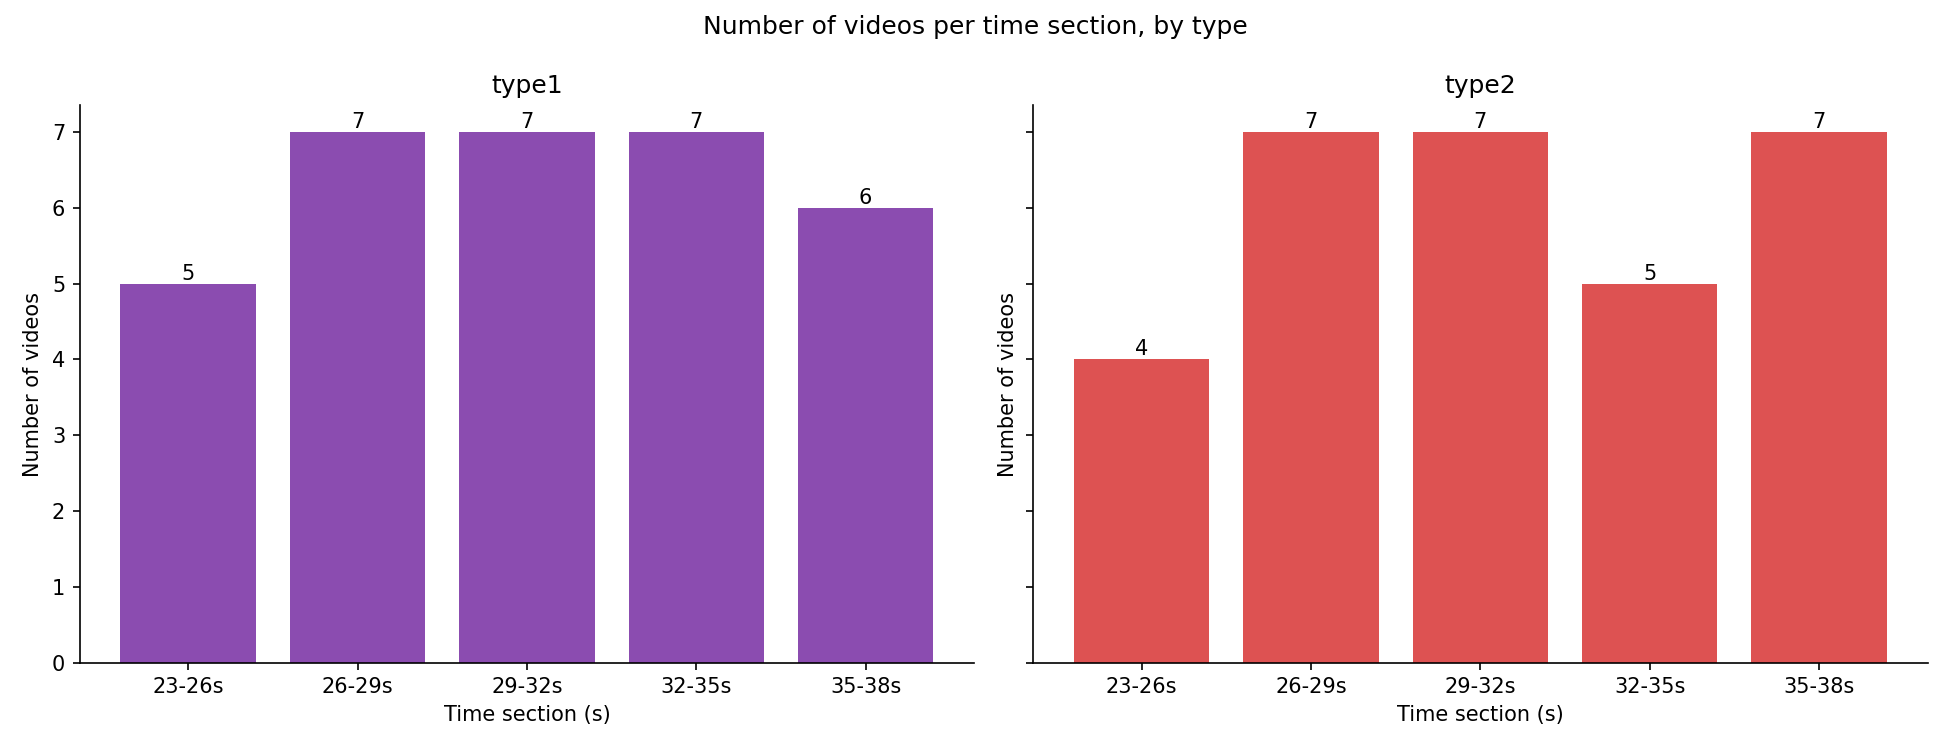
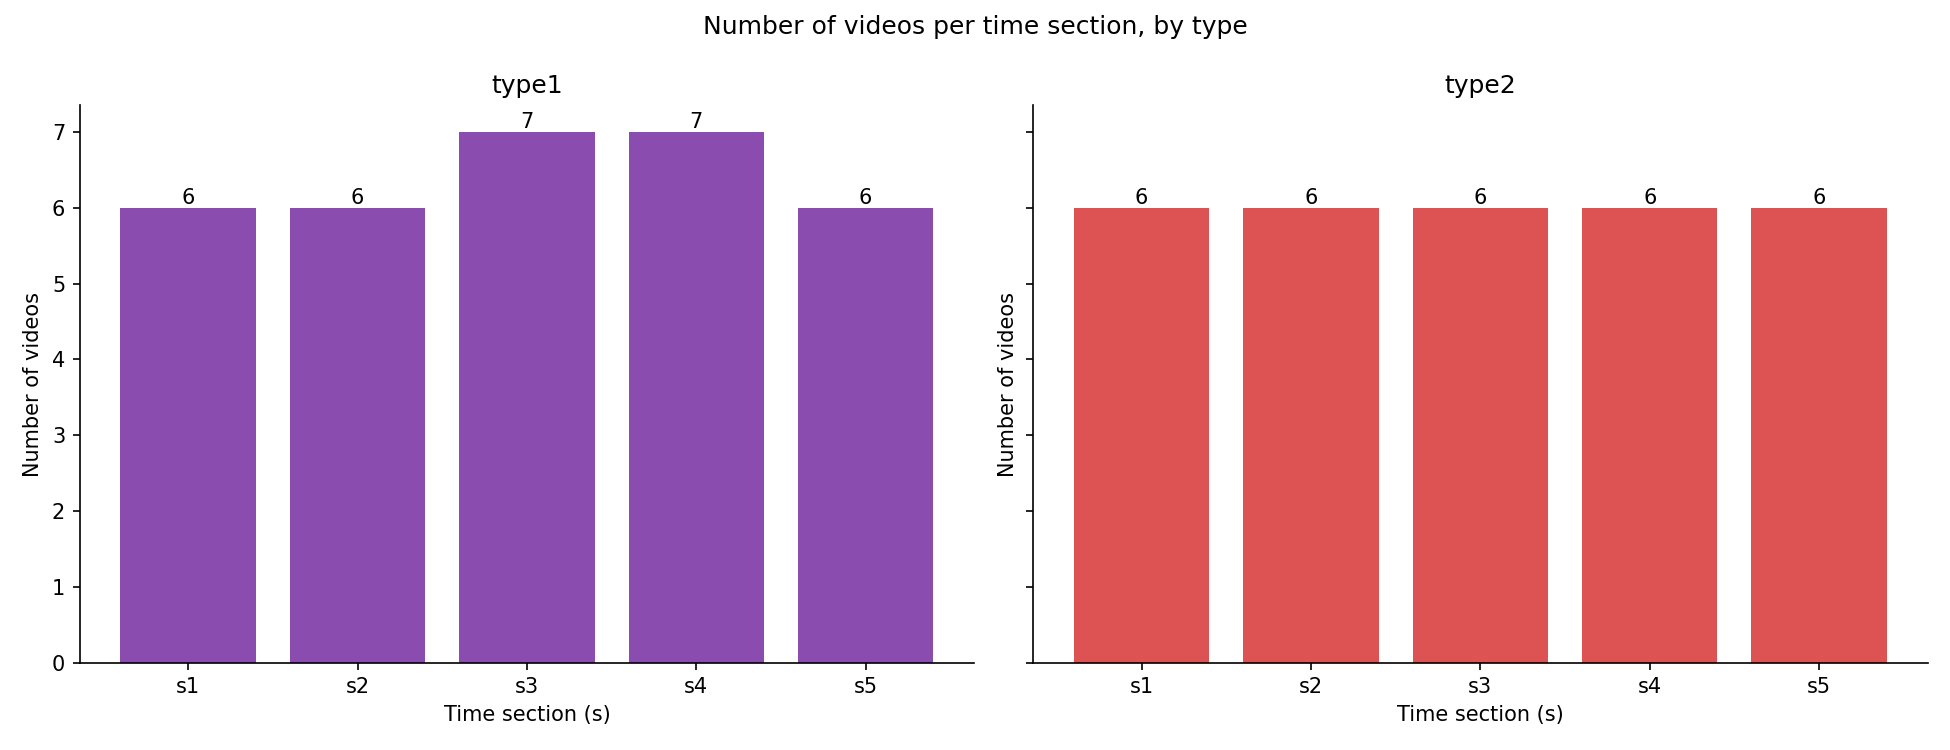
[add] histogram by type

diff --git a/stimuli/histogram_by_theme_type.py b/stimuli/histogram_by_theme_type.py
@@ -1,0 +1,107 @@
+import re
+from pathlib import Path
+
+import matplotlib.pyplot as plt
+
+VIDEO_DIR = Path("stimuli/video")
+OUTPUT_PATH = Path("stimuli/histogram_by_theme_type.png")
+
+# x축 구간 (파일명에 이미 박혀있는 s1~s5 라벨을 그대로 사용)
+BIN_LABELS = ["s1", "s2", "s3", "s4", "s5"]
+
+# 파일명에서 type과 section(s1~s5)을 뽑아냄 (theme은 상위 폴더명에서 가져옴)
+FILENAME_PATTERN = re.compile(r"^(\d+(?:\.\d+)?)s_(type1|type2)_(s[1-5])_")
+
+THEME_NAMES = ["space", "wildlife", "history"]
+TYPE_NAMES = ["type1", "type2"]
+TYPE_COLORS = {"type1": "#8B4CB0", "type2": "#DD5252"}
+
+
+def get_video_sections_by_theme_type():
+    """video 폴더의 각 mp4 파일에서 (section, theme, type)을 뽑아 theme/type별 리스트로 반환"""
+    sections_by_theme_type = {theme: {type_: [] for type_ in TYPE_NAMES} for theme in THEME_NAMES}
+
+    for video_path in sorted(VIDEO_DIR.rglob("*.mp4")):
+        match = FILENAME_PATTERN.match(video_path.name)
+        if not match:
+            print(f"경고: {video_path.name}에서 type/section을 찾지 못했습니다.")
+            continue
+
+        theme = video_path.parent.name
+        if theme not in sections_by_theme_type:
+            print(f"경고: {video_path}의 theme({theme})을 알 수 없습니다.")
+            continue
+
+        video_type = match.group(2)
+        section = match.group(3)
+        sections_by_theme_type[theme][video_type].append(section)
+
+    return sections_by_theme_type
+
+
+def count_videos_per_bin(sections_list):
+    """구간별 영상 개수를 세서 리스트로 반환"""
+    return [sections_list.count(label) for label in BIN_LABELS]
+
+
+def plot_bar_with_labels(ax, counts, video_type, theme, show_xlabel, show_ylabel):
+    """하나의 subplot에 theme/type별 막대그래프를 그림"""
+    bars = ax.bar(BIN_LABELS, counts, color=TYPE_COLORS[video_type])
+
+    # 막대 위에 개수 숫자 표시
+    for bar in bars:
+        height = bar.get_height()
+        ax.text(
+            bar.get_x() + bar.get_width() / 2,
+            height,
+            str(int(height)),
+            ha="center",
+            va="bottom",
+        )
+
+    if show_xlabel:
+        ax.set_xlabel("Time section (s)")
+    if show_ylabel:
+        ax.set_ylabel("Number of videos")
+    ax.set_title(f"{theme} / {video_type}")
+
+    ax.spines["top"].set_visible(False)
+    ax.spines["right"].set_visible(False)
+
+
+def plot_histograms(sections_by_theme_type):
+    """theme x type 조합별 히스토그램을 그리드로 그려서 하나의 png로 저장"""
+    n_rows, n_cols = len(THEME_NAMES), len(TYPE_NAMES)
+    fig, axes = plt.subplots(n_rows, n_cols, figsize=(6.5 * n_cols, 4.5 * n_rows), sharey=True, sharex=True)
+
+    for row, theme in enumerate(THEME_NAMES):
+        for col, video_type in enumerate(TYPE_NAMES):
+            ax = axes[row][col]
+            counts = count_videos_per_bin(sections_by_theme_type[theme][video_type])
+            plot_bar_with_labels(
+                ax, counts, video_type, theme,
+                show_xlabel=(row == n_rows - 1),
+                show_ylabel=(col == 0),
+            )
+
+    fig.suptitle("Number of videos per time section, by theme and type")
+    fig.tight_layout()
+    fig.savefig(OUTPUT_PATH, dpi=150)
+    print(f"Saved histogram: {OUTPUT_PATH}")
+
+
+def main():
+    if not VIDEO_DIR.exists():
+        raise FileNotFoundError("Video directory not found.")
+
+    sections_by_theme_type = get_video_sections_by_theme_type()
+
+    for theme in THEME_NAMES:
+        for video_type in TYPE_NAMES:
+            print(f"{theme}/{video_type}: {len(sections_by_theme_type[theme][video_type])}개")
+
+    plot_histograms(sections_by_theme_type)
+
+
+if __name__ == "__main__":
+    main()

diff --git a/stimuli/histogram_by_type.py b/stimuli/histogram_by_type.py
@@ -6,48 +6,35 @@ import matplotlib.pyplot as plt
 VIDEO_DIR = Path("stimuli/video")
 OUTPUT_PATH = Path("stimuli/histogram_by_type.png")
 
-# x축 구간 (초 단위, 3초 간격)
-BIN_EDGES = [23, 26, 29, 32, 35, 38]
-BIN_LABELS = ["23-26s", "26-29s", "29-32s", "32-35s", "35-38s"]
+# x축 구간 (파일명에 이미 박혀있는 s1~s5 라벨을 그대로 사용)
+BIN_LABELS = ["s1", "s2", "s3", "s4", "s5"]
 
-# 파일명에서 초 숫자와 type을 뽑아냄
-FILENAME_PATTERN = re.compile(r"^(\d+(?:\.\d+)?)s_(type1|type2)")
+# 파일명에서 type과 section(s1~s5)을 뽑아냄
+FILENAME_PATTERN = re.compile(r"^(\d+(?:\.\d+)?)s_(type1|type2)_(s[1-5])_")
 
 TYPE_NAMES = ["type1", "type2"]
 TYPE_COLORS = {"type1": "#8B4CB0", "type2": "#DD5252"}
 
 
-def get_video_seconds_by_type():
-    """video 폴더의 각 mp4 파일에서 (초, type)을 뽑아 type별 리스트로 반환"""
-    seconds_by_type = {"type1": [], "type2": []}
+def get_video_sections_by_type():
+    """video 폴더의 각 mp4 파일에서 (section, type)을 뽑아 type별 리스트로 반환"""
+    sections_by_type = {"type1": [], "type2": []}
 
     for video_path in sorted(VIDEO_DIR.rglob("*.mp4")):
         match = FILENAME_PATTERN.match(video_path.name)
         if match:
-            seconds = float(match.group(1))
             video_type = match.group(2)
-            seconds_by_type[video_type].append(seconds)
+            section = match.group(3)
+            sections_by_type[video_type].append(section)
         else:
-            print(f"경고: {video_path.name}에서 type을 찾지 못했습니다.")
+            print(f"경고: {video_path.name}에서 type/section을 찾지 못했습니다.")
 
-    return seconds_by_type
+    return sections_by_type
 
 
-def count_videos_per_bin(seconds_list):
+def count_videos_per_bin(sections_list):
     """구간별 영상 개수를 세서 리스트로 반환"""
-    counts = [0] * len(BIN_LABELS)
-
-    for seconds in seconds_list:
-        for i in range(len(BIN_LABELS)):
-            lower = BIN_EDGES[i]
-            upper = BIN_EDGES[i + 1]
-            if lower <= seconds < upper:
-                counts[i] += 1
-                break
-        else:
-            print(f"경고: {seconds}s는 구간 밖이라 히스토그램에 포함되지 않았습니다.")
-
-    return counts
+    return [sections_list.count(label) for label in BIN_LABELS]
 
 
 def plot_bar_with_labels(ax, counts, video_type):
@@ -73,12 +60,12 @@ def plot_bar_with_labels(ax, counts, video_type):
     ax.spines["right"].set_visible(False)
 
 
-def plot_histograms(seconds_by_type):
+def plot_histograms(sections_by_type):
     """type1, type2 히스토그램을 나란히 그려서 하나의 png로 저장"""
     fig, axes = plt.subplots(1, 2, figsize=(13, 5), sharey=True)
 
     for ax, video_type in zip(axes, TYPE_NAMES):
-        counts = count_videos_per_bin(seconds_by_type[video_type])
+        counts = count_videos_per_bin(sections_by_type[video_type])
         plot_bar_with_labels(ax, counts, video_type)
 
     fig.suptitle("Number of videos per time section, by type")
@@ -91,12 +78,12 @@ def main():
     if not VIDEO_DIR.exists():
         raise FileNotFoundError("Video directory not found.")
 
-    seconds_by_type = get_video_seconds_by_type()
+    sections_by_type = get_video_sections_by_type()
 
     for video_type in TYPE_NAMES:
-        print(f"{video_type}: {len(seconds_by_type[video_type])}개")
+        print(f"{video_type}: {len(sections_by_type[video_type])}개")
 
-    plot_histograms(seconds_by_type)
+    plot_histograms(sections_by_type)
 
 
 if __name__ == "__main__":
